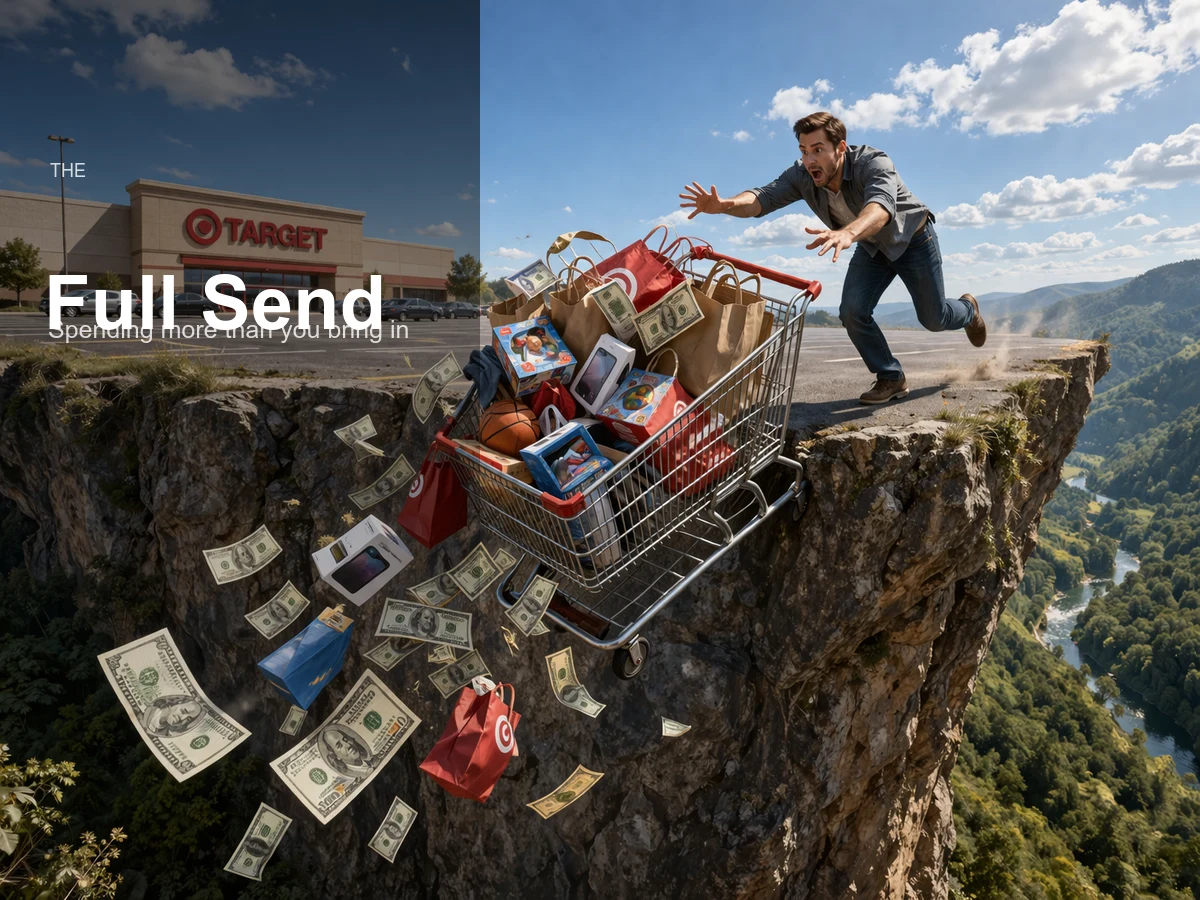
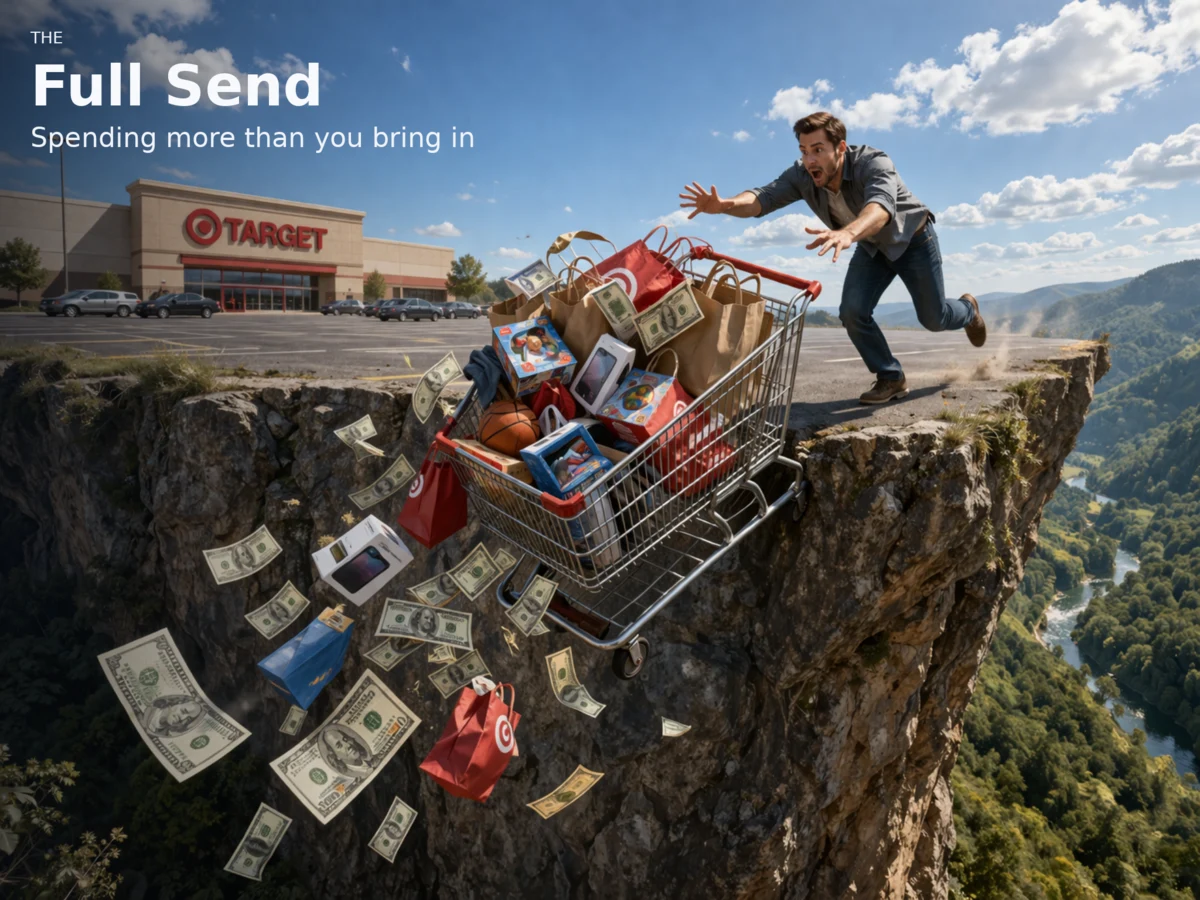
fix: replace full-send with clean pre-made image, revert ILLUSTRATION_CARDS entry

diff --git a/src/components/dashboard/FinancialAutopsyPanel.tsx b/src/components/dashboard/FinancialAutopsyPanel.tsx
@@ -137,10 +137,6 @@ export function PersonalityCard({ result, signals, secondaryHref }: {
       src: '/personalities/wire-dancer.webp',
       dotColor: '#2DD4BF', btnColor: 'rgba(45,212,191,0.22)', btnBorder: 'rgba(45,212,191,0.45)',
     },
-    full_send: {
-      src: '/personalities/full-send.webp',
-      dotColor: '#F97316', btnColor: 'rgba(249,115,22,0.22)', btnBorder: 'rgba(249,115,22,0.45)',
-    },
   }
 
   const illus = ILLUSTRATION_CARDS[core.id as string]
